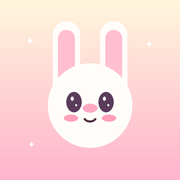
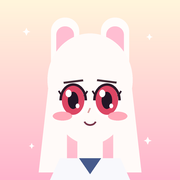
update app source

diff --git a/Sources/AppIcons.swift b/Sources/AppIcons.swift
@@ -9,16 +9,16 @@ struct AppIconOption {
 enum AppIcons {
     static let all: [AppIconOption] = [
         AppIconOption(key: nil, name: "默认", previewName: "IconDefault"),
-        AppIconOption(key: "IconSakura", name: "樱花", previewName: "IconSakura"),
+        AppIconOption(key: "IconSakura", name: "粉樱", previewName: "IconSakura"),
         AppIconOption(key: "IconCat", name: "猫耳", previewName: "IconCat"),
-        AppIconOption(key: "IconMoon", name: "月眠", previewName: "IconMoon"),
-        AppIconOption(key: "IconStar", name: "星星", previewName: "IconStar"),
-        AppIconOption(key: "IconCyber", name: "赛博", previewName: "IconCyber"),
-        AppIconOption(key: "IconBunny", name: "兔兔", previewName: "IconBunny"),
+        AppIconOption(key: "IconMoon", name: "月白", previewName: "IconMoon"),
+        AppIconOption(key: "IconStar", name: "星野", previewName: "IconStar"),
+        AppIconOption(key: "IconCyber", name: "霓虹", previewName: "IconCyber"),
+        AppIconOption(key: "IconBunny", name: "兔眠", previewName: "IconBunny"),
         AppIconOption(key: "IconMatcha", name: "抹茶", previewName: "IconMatcha"),
-        AppIconOption(key: "IconPeach", name: "蜜桃", previewName: "IconPeach"),
-        AppIconOption(key: "IconOcean", name: "海浪", previewName: "IconOcean"),
-        AppIconOption(key: "IconPixel", name: "像素心", previewName: "IconPixel")
+        AppIconOption(key: "IconPeach", name: "桃桃", previewName: "IconPeach"),
+        AppIconOption(key: "IconOcean", name: "海音", previewName: "IconOcean"),
+        AppIconOption(key: "IconPixel", name: "像素", previewName: "IconPixel")
     ]
 
     static var currentKey: String? {

diff --git a/使用说明.md b/使用说明.md
@@ -3,7 +3,11 @@
 这是 iPhone 版「论坛盒子」——7 个论坛的 App 内嵌浏览器（WKWebView），
 登录态保存在 App 里，跟随 iPhone 系统代理 / VPN。
 
-当前版本：**3.25.0**
+当前版本：**3.26.0**
+v3.26.0 图标换批：
+- 10 个图标全部替换为二次元角色头像（不同发色/发型/瞳色/配饰）
+- 粉樱 / 猫耳 / 月白 / 星野 / 霓虹 / 兔眠 / 抹茶 / 桃桃 / 海音 / 像素
+- 图标选择页、桌面切换逻辑不变
 v3.25.0 个性化：
 - 设置新增「软件图标」：默认 + 10 个二次元风格图标（樱花/猫耳/月眠/星星/赛博/兔兔/抹茶/蜜桃/海浪/像素心）
 - 图标选择页三列预览，选中后通过 iOS 原生 alternate icon 切换
